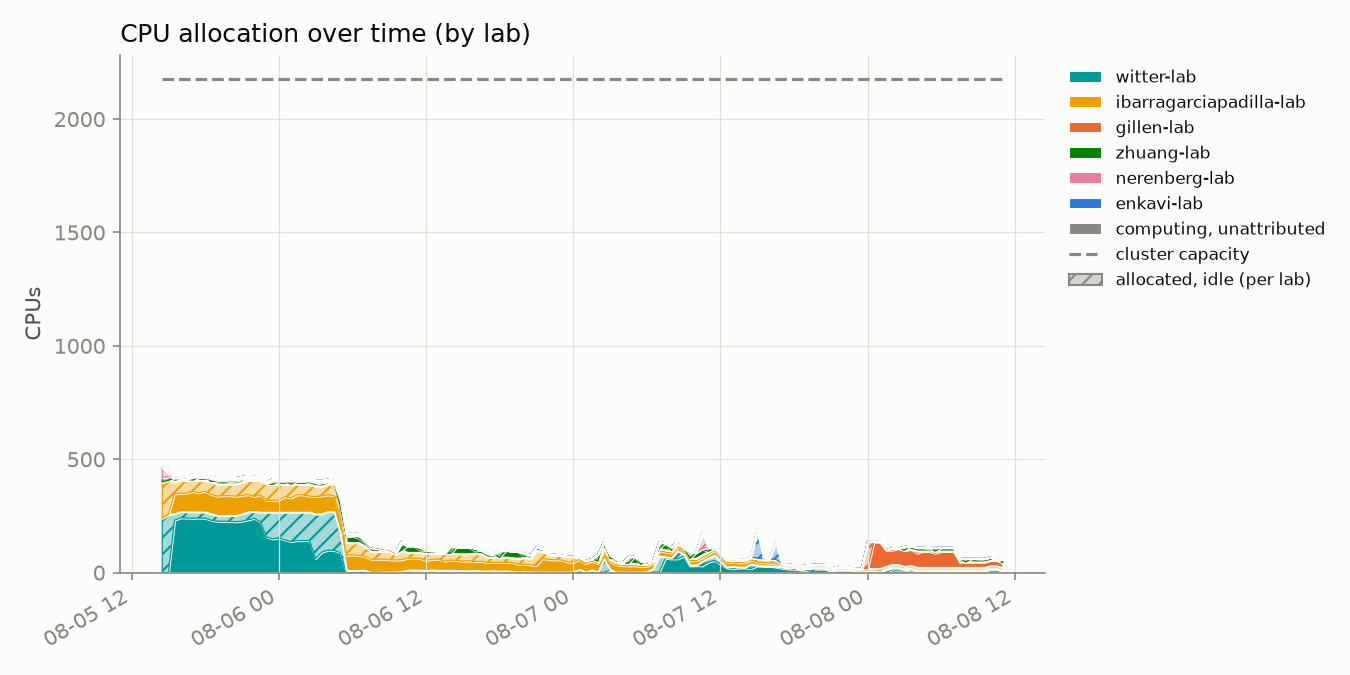
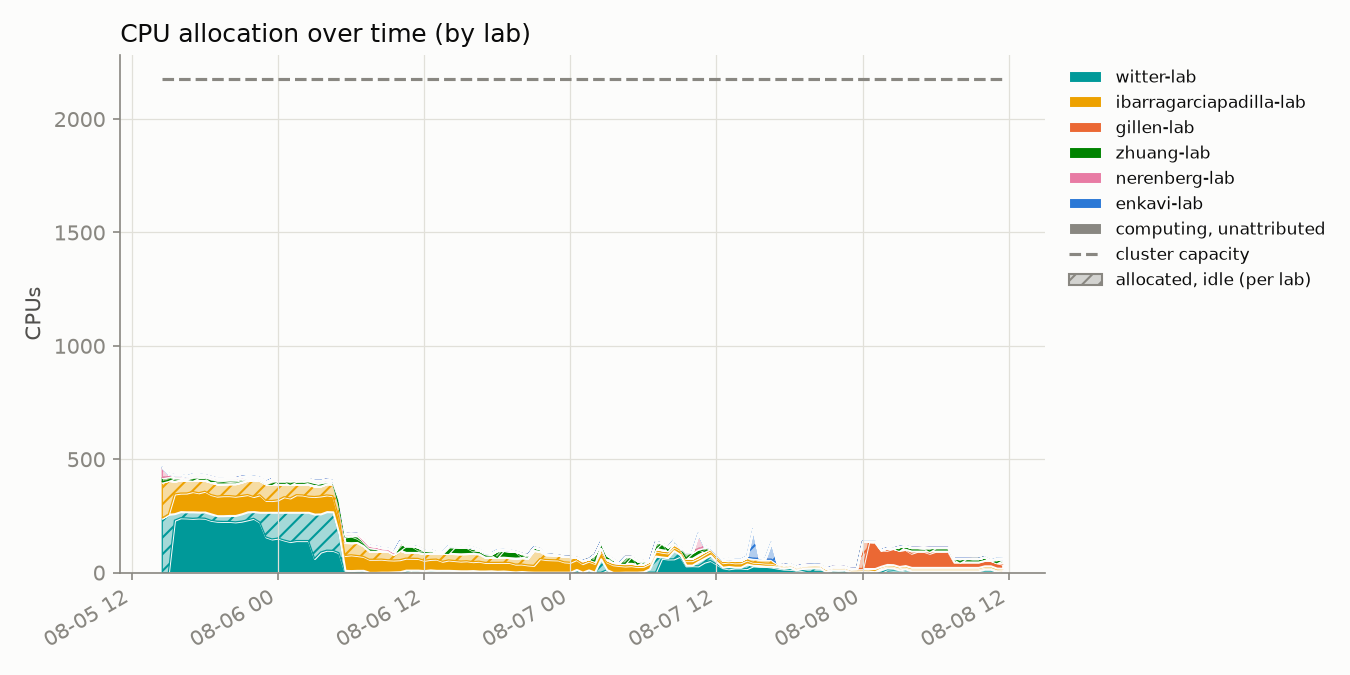
update 2026-08-08T11:30:01-07:00

diff --git a/README.md b/README.md
@@ -2,8 +2,8 @@
 
 Automated GPU/CPU/queue utilization tracker for `hopper.cluster`, updated every 30 minutes by cron. Usernames are anonymized to a stable per-account pseudonym; lab names are real.
 
-Last updated: 2026-08-08T11:00:11-07:00
-Samples: 138 queue snapshots, 138 GPU snapshots
+Last updated: 2026-08-08T11:30:12-07:00
+Samples: 139 queue snapshots, 139 GPU snapshots
 
 ## Resources
 
@@ -16,25 +16,25 @@ Samples: 138 queue snapshots, 138 GPU snapshots
 
 ## Headline
 
-- **45.0%** of the cluster's 60 GPUs allocated, averaged across all samples
-- **47.3%** average `nvidia-smi` utilization *when* a GPU is allocated to a job
-- **88.2%** average cgroup CPU utilization *when* a CPU is allocated to a job
+- **44.9%** of the cluster's 60 GPUs allocated, averaged across all samples
+- **47.1%** average `nvidia-smi` utilization *when* a GPU is allocated to a job
+- **88.3%** average cgroup CPU utilization *when* a CPU is allocated to a job
 
 ## Per lab / per user
 
 <table>
 <tr><th>Lab</th><th>User</th><th align='right'>GPU-hours allocated</th><th align='right'>CPU-hours allocated</th><th align='right'>GPU utilization</th></tr>
-<tr style='background-color:#d8ecd8'><td>zhuang-lab</td><td>user-0db9ced0</td><td align='right'>842.0</td><td align='right'>842.0</td><td align='right'>45%</td></tr>
-<tr style='background-color:#d8efef'><td>witter-lab</td><td>user-554c620c</td><td align='right'>489.5</td><td align='right'>1015.0</td><td align='right'>68%</td></tr>
+<tr style='background-color:#d8ecd8'><td>zhuang-lab</td><td>user-0db9ced0</td><td align='right'>849.5</td><td align='right'>849.5</td><td align='right'>45%</td></tr>
+<tr style='background-color:#d8efef'><td>witter-lab</td><td>user-554c620c</td><td align='right'>491.5</td><td align='right'>1017.0</td><td align='right'>68%</td></tr>
 <tr style='background-color:#d8efef'><td>witter-lab</td><td>user-d58f5a15</td><td align='right'>467.5</td><td align='right'>3740.0</td><td align='right'>9%</td></tr>
 <tr style='background-color:#fbebf1'><td>nerenberg-lab</td><td>user-6bb5f332</td><td align='right'>40.0</td><td align='right'>200.0</td><td align='right'>71%</td></tr>
 <tr style='background-color:#fbebf1'><td>nerenberg-lab</td><td>user-fedb5feb</td><td align='right'>22.5</td><td align='right'>54.0</td><td align='right'>67%</td></tr>
-<tr style='background-color:#dfeaf8'><td>enkavi-lab</td><td>user-c21bdaa4</td><td align='right'>0.0</td><td align='right'>173.0</td><td align='right'>—</td></tr>
-<tr style='background-color:#fce8e0'><td>gillen-lab</td><td>user-b89a87ef</td><td align='right'>0.0</td><td align='right'>708.0</td><td align='right'>—</td></tr>
-<tr style='background-color:#fcf0d8'><td>ibarragarciapadilla-lab</td><td>user-eec7ffae</td><td align='right'>0.0</td><td align='right'>426.5</td><td align='right'>—</td></tr>
+<tr style='background-color:#fce8e0'><td>gillen-lab</td><td>user-b89a87ef</td><td align='right'>0.0</td><td align='right'>720.0</td><td align='right'>—</td></tr>
 <tr style='background-color:#fbebf1'><td>nerenberg-lab</td><td>user-b12dc074</td><td align='right'>0.0</td><td align='right'>16.0</td><td align='right'>—</td></tr>
-<tr style='background-color:#fcf0d8'><td>ibarragarciapadilla-lab</td><td>user-3cfc41a3</td><td align='right'>0.0</td><td align='right'>3960.0</td><td align='right'>—</td></tr>
+<tr style='background-color:#dfeaf8'><td>enkavi-lab</td><td>user-c21bdaa4</td><td align='right'>0.0</td><td align='right'>175.0</td><td align='right'>—</td></tr>
+<tr style='background-color:#fcf0d8'><td>ibarragarciapadilla-lab</td><td>user-eec7ffae</td><td align='right'>0.0</td><td align='right'>426.5</td><td align='right'>—</td></tr>
 <tr style='background-color:#fcf0d8'><td>ibarragarciapadilla-lab</td><td>user-dad71a72</td><td align='right'>0.0</td><td align='right'>6.0</td><td align='right'>—</td></tr>
+<tr style='background-color:#fcf0d8'><td>ibarragarciapadilla-lab</td><td>user-3cfc41a3</td><td align='right'>0.0</td><td align='right'>3967.5</td><td align='right'>—</td></tr>
 </table>
 
 ## Usage over time
@@ -45,7 +45,7 @@ Samples: 138 queue snapshots, 138 GPU snapshots
 
 Solid = utilized by lab, hatched = allocated but idle, gray = usage not traceable to a lab, dashed line = cluster capacity.
 
-Attribution combines `nvidia-smi`'s process listing with Slurm's GPU-to-job binding record; the latter caught **2670** readings the former missed.
+Attribution combines `nvidia-smi`'s process listing with Slurm's GPU-to-job binding record; the latter caught **2682** readings the former missed.
 
 ## Queue
 
@@ -57,13 +57,13 @@ Attribution combines `nvidia-smi`'s process listing with Slurm's GPU-to-job bind
 
 ![CPU usage vs GPU usage, decayed](assets/cpu_gpu_usage.png)
 
-One point per user per snapshot (n=663), usage decayed on Slurm's ~7-day fairshare half-life.
+One point per user per snapshot (n=668), usage decayed on Slurm's ~7-day fairshare half-life.
 
 **GPU usage doesn't count toward priority on this cluster** (`TRESBillingWeights`/`PriorityWeightTRES` unset) - watch the **upper-left**: low CPU usage (high priority) with high GPU usage.
 
 ## Recommendations
 
-1. **Weight GPU usage in fairshare.** `TRESBillingWeights` and `PriorityWeightTRES` are both unset right now, so Slurm's fairshare score only sees CPU-seconds - a job holding 4 idle L40S GPUs costs nothing in priority as long as it isn't also holding CPUs. That's the exact failure mode the scatter above is built to catch (upper-left: low CPU usage, high GPU usage). Fix: `scontrol update partition=main TRESBillingWeights=CPU=1.0,GRES/gpu=<weight>` (or set `PriorityWeightTRES` cluster-wide), then `scontrol reconfigure` - a full `slurmctld` restart also works but drops in-flight priority state. A reasonable starting point for `<weight>` is the CPUs-per-GPU ratio on a GPU node (128 CPUs / 4 GPUs = 32), so one GPU costs as much fairshare as the CPU share it displaces; tune from there against next week's headline numbers (45.0% allocated, 47.3% utilized when allocated, as of this snapshot). The weight value itself is a policy call - loop in whoever owns cluster allocation policy before changing it.
+1. **Weight GPU usage in fairshare.** `TRESBillingWeights` and `PriorityWeightTRES` are both unset right now, so Slurm's fairshare score only sees CPU-seconds - a job holding 4 idle L40S GPUs costs nothing in priority as long as it isn't also holding CPUs. That's the exact failure mode the scatter above is built to catch (upper-left: low CPU usage, high GPU usage). Fix: `scontrol update partition=main TRESBillingWeights=CPU=1.0,GRES/gpu=<weight>` (or set `PriorityWeightTRES` cluster-wide), then `scontrol reconfigure` - a full `slurmctld` restart also works but drops in-flight priority state. A reasonable starting point for `<weight>` is the CPUs-per-GPU ratio on a GPU node (128 CPUs / 4 GPUs = 32), so one GPU costs as much fairshare as the CPU share it displaces; tune from there against next week's headline numbers (44.9% allocated, 47.1% utilized when allocated, as of this snapshot). The weight value itself is a policy call - loop in whoever owns cluster allocation policy before changing it.
 
 2. **Escalate on sustained low utilization** (see table and scatter above). Right now the clearest candidate is `user-d58f5a15` in `witter-lab`: 467.5 GPU-hours allocated at 9% average utilization, i.e. roughly 424 GPU-hours that sat idle instead of going to someone in the queue. Turning that into an automated escalation needs two decisions made up front: a utilization threshold (something like under 20% mean utilization over at least 50 allocated GPU-hours is a defensible starting bar - loose enough to skip short debugging runs, tight enough to catch parked allocations) and a grace period (how many consecutive low-utilization snapshots before it counts as "sustained" rather than a momentary lull between batches). Once those are set, the mechanism can be either soft (a bot that reads `data/gpu_samples.jsonl` and reminds the user/lab by email or Slack) or hard (a Slurm-side QOS penalty, e.g. `sacctmgr modify qos <qos> set Priority-=<n>`, applied after N consecutive offending snapshots). Neither exists yet - today the table and scatter above are a read-only signal, not an enforced policy.
 
